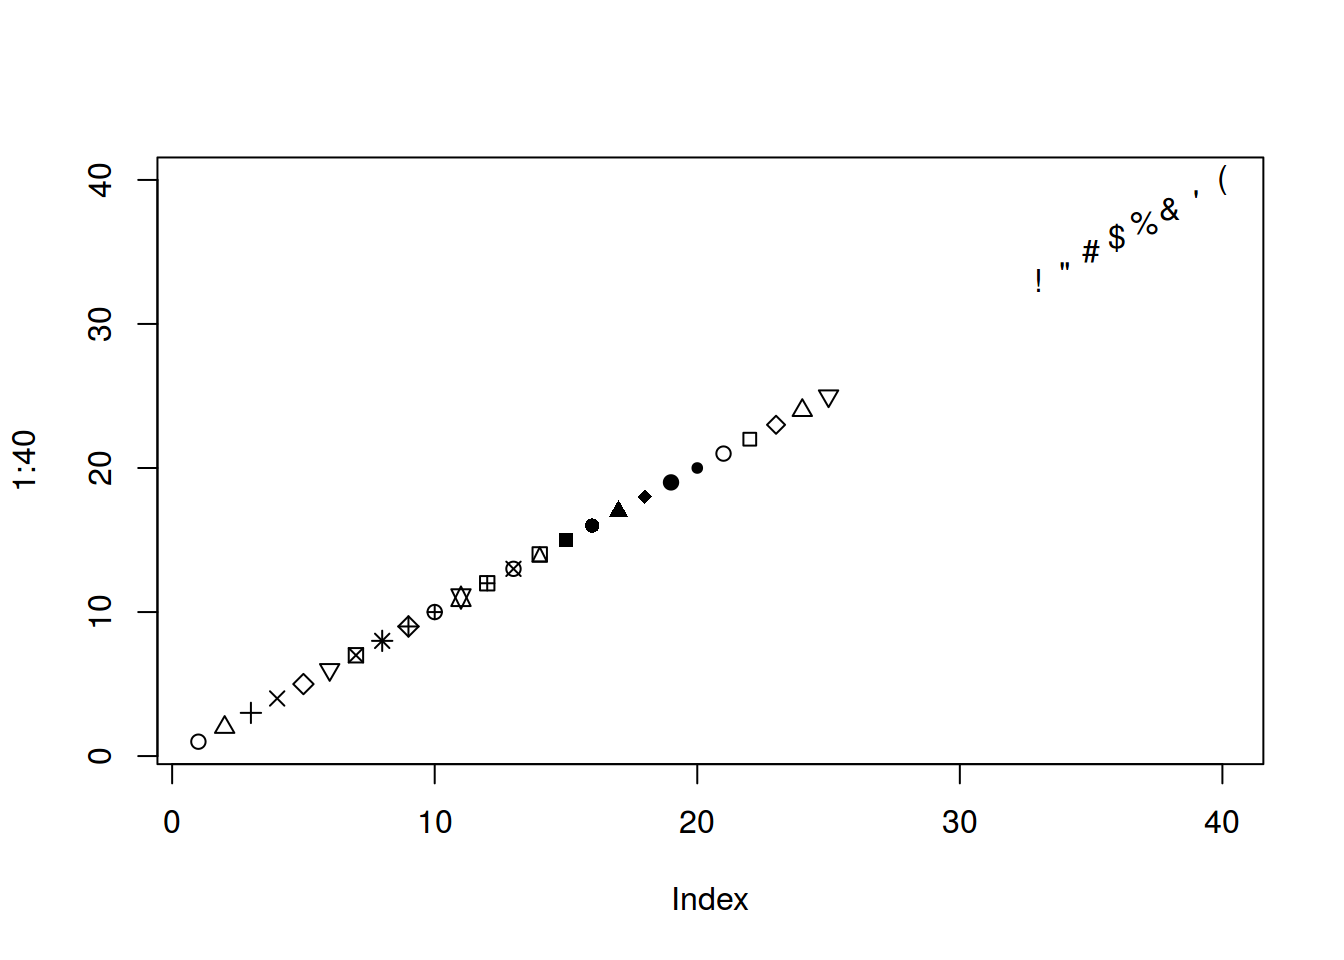
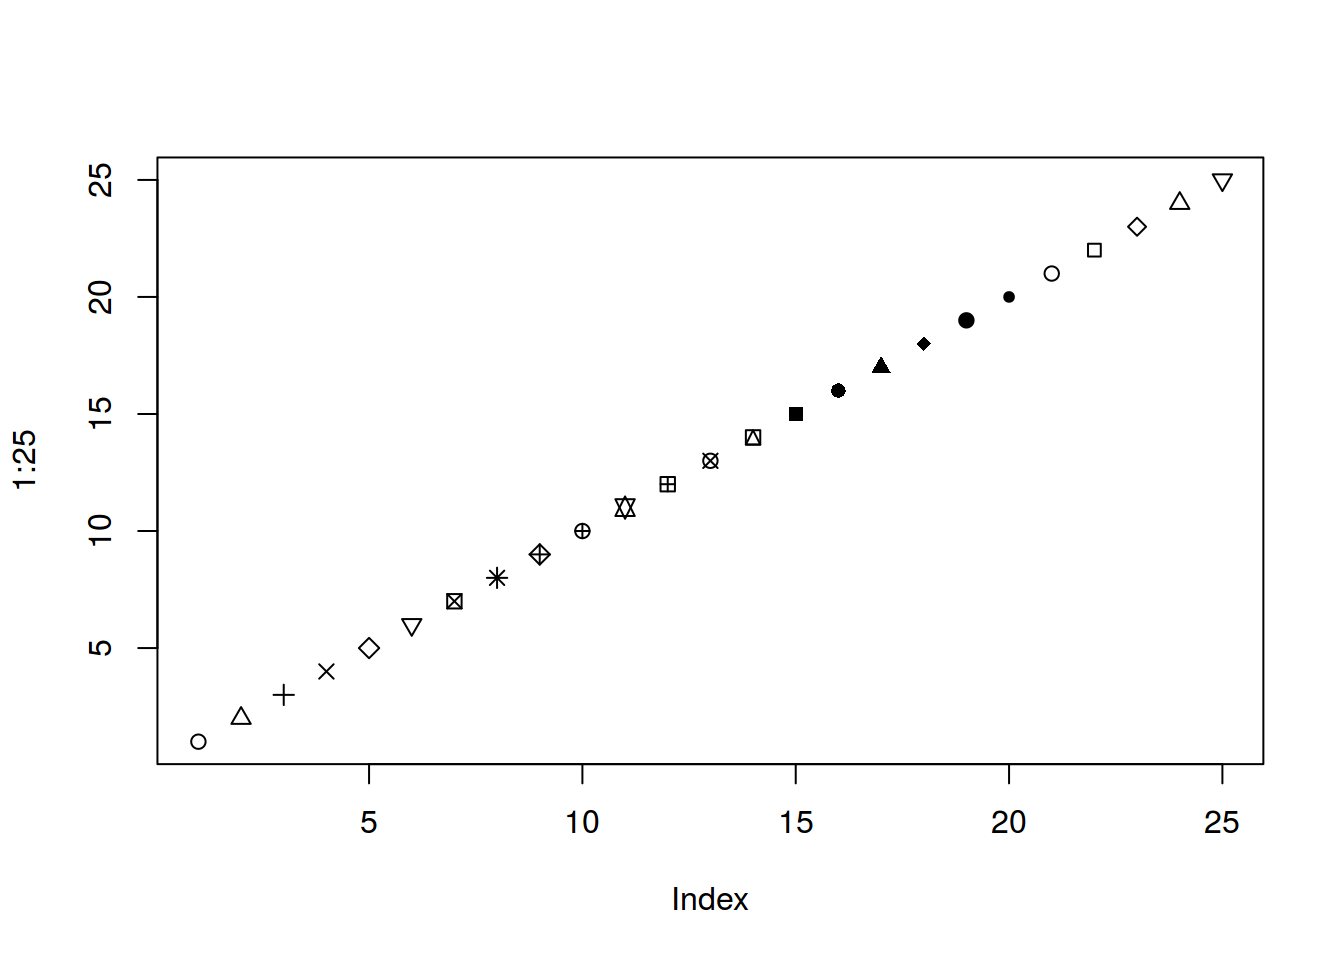
Вт. янв. 24 18:31:37 MSK 2017

diff --git a/docs/Lab_3.html b/docs/Lab_3.html
@@ -237,74 +237,74 @@ $(document).ready(function () {
 dim(g) &lt;- c(5, 10)
 g &lt;- as.data.frame(g)
 g</code></pre>
-<pre><code>##           V1         V2         V3         V4          V5          V6
-## 1 -1.3517249  0.1877347  0.7973820 -1.3187318  0.22622889 -0.18580764
-## 2  0.2708283  1.2797086 -1.8145999  0.2684997 -2.07774435 -0.55764336
-## 3 -0.1108072 -0.5525204 -0.8569892  1.4523414  0.06884078  0.24843660
-## 4 -1.2870143  0.4575026 -0.8422536 -2.2070686 -1.44991598  0.61141061
-## 5 -0.7647882 -0.4903380 -0.8019057 -0.3799058  0.90179858 -0.06198902
-##           V7          V8           V9         V10
-## 1 -0.4036390  0.24399688 -0.153870879 -1.45540285
-## 2  1.1341110 -0.06443948  0.138677161 -1.12787719
-## 3  0.7019382  1.09266022  0.709684055 -1.85526251
-## 4  0.9100318 -0.05446905 -0.007342953  0.08713663
-## 5 -2.9336308  0.66560961  0.133650806  0.91507194</code></pre>
+<pre><code>##            V1         V2         V3         V4         V5         V6
+## 1  1.15036863 -0.3878489  3.4449063 -1.3143972  0.4079037  0.2434835
+## 2 -0.07677652  0.3258960  0.1343360 -0.1001912  0.1894442  0.7019218
+## 3 -0.98080334 -0.6922754  0.6909976  0.5919681 -0.1340734 -0.4426404
+## 4 -0.83274929  1.3516030 -2.0236497  0.2130675  1.1025906  0.6579244
+## 5 -0.96438682  0.3516740  0.7360053 -0.5492660 -0.8519452 -0.7323938
+##            V7         V8          V9        V10
+## 1  0.01975244  0.6742642 -2.27879178 -0.4569472
+## 2 -1.47064603  0.3871146 -1.01735862  1.6451995
+## 3  0.29205309 -0.2482911  0.95821970  1.0725123
+## 4 -0.87325429 -2.1557843 -0.69709731 -1.3730056
+## 5  1.48002715  0.2835117  0.02403344 -1.2585086</code></pre>
 <pre class="r"><code>f &lt;- rnorm(30)
 dim(f) &lt;- c(3, 10)
 f &lt;- as.data.frame(f)
 f</code></pre>
-<pre><code>##           V1        V2          V3        V4         V5         V6
-## 1 -1.3595275 2.4973683  0.47372256 0.7646223  0.4616883  0.2262698
-## 2  0.9808833 1.0053464 -0.01701119 1.4678475  0.7281109  1.9926540
-## 3  1.8061878 0.7891848 -2.05033874 0.3254322 -0.5960979 -0.3034322
-##           V7         V8         V9        V10
-## 1  0.8484894  0.5515371 -0.9062912  1.1851303
-## 2  0.1487302 -1.5892038  0.4357017 -0.3845065
-## 3 -0.9343268  0.2859564 -0.5512410  2.9508782</code></pre>
+<pre><code>##           V1        V2        V3         V4        V5        V6
+## 1 -0.3088611 0.8556017 -1.018222  0.6543355 1.9359502 0.3357783
+## 2  1.0970357 2.4861011  1.433616  1.2356220 2.1050695 1.7252242
+## 3  1.8421818 1.1998634 -1.145156 -0.3188687 0.6672773 0.2841823
+##            V7        V8          V9         V10
+## 1 -0.07983191 0.1946759 -0.35911632  0.05194571
+## 2  0.25178849 0.9580526  0.21986311 -1.29829671
+## 3  1.10770352 1.2068066 -0.02250642 -0.68765167</code></pre>
 <pre class="r"><code>rbind(g, f)</code></pre>
-<pre><code>##           V1         V2          V3         V4          V5          V6
-## 1 -1.3517249  0.1877347  0.79738197 -1.3187318  0.22622889 -0.18580764
-## 2  0.2708283  1.2797086 -1.81459994  0.2684997 -2.07774435 -0.55764336
-## 3 -0.1108072 -0.5525204 -0.85698919  1.4523414  0.06884078  0.24843660
-## 4 -1.2870143  0.4575026 -0.84225356 -2.2070686 -1.44991598  0.61141061
-## 5 -0.7647882 -0.4903380 -0.80190574 -0.3799058  0.90179858 -0.06198902
-## 6 -1.3595275  2.4973683  0.47372256  0.7646223  0.46168825  0.22626981
-## 7  0.9808833  1.0053464 -0.01701119  1.4678475  0.72811086  1.99265400
-## 8  1.8061878  0.7891848 -2.05033874  0.3254322 -0.59609786 -0.30343222
-##           V7          V8           V9         V10
-## 1 -0.4036390  0.24399688 -0.153870879 -1.45540285
-## 2  1.1341110 -0.06443948  0.138677161 -1.12787719
-## 3  0.7019382  1.09266022  0.709684055 -1.85526251
-## 4  0.9100318 -0.05446905 -0.007342953  0.08713663
-## 5 -2.9336308  0.66560961  0.133650806  0.91507194
-## 6  0.8484894  0.55153710 -0.906291188  1.18513034
-## 7  0.1487302 -1.58920375  0.435701732 -0.38450646
-## 8 -0.9343268  0.28595639 -0.551240951  2.95087817</code></pre>
+<pre><code>##            V1         V2         V3         V4         V5         V6
+## 1  1.15036863 -0.3878489  3.4449063 -1.3143972  0.4079037  0.2434835
+## 2 -0.07677652  0.3258960  0.1343360 -0.1001912  0.1894442  0.7019218
+## 3 -0.98080334 -0.6922754  0.6909976  0.5919681 -0.1340734 -0.4426404
+## 4 -0.83274929  1.3516030 -2.0236497  0.2130675  1.1025906  0.6579244
+## 5 -0.96438682  0.3516740  0.7360053 -0.5492660 -0.8519452 -0.7323938
+## 6 -0.30886115  0.8556017 -1.0182221  0.6543355  1.9359502  0.3357783
+## 7  1.09703573  2.4861011  1.4336160  1.2356220  2.1050695  1.7252242
+## 8  1.84218175  1.1998634 -1.1451556 -0.3188687  0.6672773  0.2841823
+##            V7         V8          V9         V10
+## 1  0.01975244  0.6742642 -2.27879178 -0.45694717
+## 2 -1.47064603  0.3871146 -1.01735862  1.64519948
+## 3  0.29205309 -0.2482911  0.95821970  1.07251231
+## 4 -0.87325429 -2.1557843 -0.69709731 -1.37300561
+## 5  1.48002715  0.2835117  0.02403344 -1.25850861
+## 6 -0.07983191  0.1946759 -0.35911632  0.05194571
+## 7  0.25178849  0.9580526  0.21986311 -1.29829671
+## 8  1.10770352  1.2068066 -0.02250642 -0.68765167</code></pre>
 <pre class="r"><code>h &lt;- rnorm(21)
 dim(h) &lt;- c(3, 7)
 h &lt;- as.data.frame(h)
 h</code></pre>
-<pre><code>##           V1         V2         V3        V4         V5         V6
-## 1 -0.3152461 -1.1198365 -0.6485647 0.6530131 -0.1133994 -0.6394220
-## 2  0.4589098 -0.2635579  0.5290864 0.3737277  0.9727770 -0.1802889
-## 3  0.5345629  0.1939366 -0.6982871 1.6346708 -0.7003031 -0.5442038
-##           V7
-## 1  0.2250449
-## 2 -1.5767357
-## 3 -1.4796297</code></pre>
+<pre><code>##          V1         V2         V3         V4         V5         V6
+## 1 0.8679111  1.6064744  2.4759844 -2.3318697 -1.1634989 -1.4288892
+## 2 0.2074690 -0.5454714  0.8556674  0.6423995 -0.7003535  0.4077145
+## 3 0.4096905  0.4721778 -0.2709580  1.4626329  1.0380578  0.5214895
+##            V7
+## 1 -1.16824882
+## 2 -0.07871936
+## 3 -0.11492098</code></pre>
 <pre class="r"><code>cbind(f, h)</code></pre>
-<pre><code>##           V1        V2          V3        V4         V5         V6
-## 1 -1.3595275 2.4973683  0.47372256 0.7646223  0.4616883  0.2262698
-## 2  0.9808833 1.0053464 -0.01701119 1.4678475  0.7281109  1.9926540
-## 3  1.8061878 0.7891848 -2.05033874 0.3254322 -0.5960979 -0.3034322
-##           V7         V8         V9        V10         V1         V2
-## 1  0.8484894  0.5515371 -0.9062912  1.1851303 -0.3152461 -1.1198365
-## 2  0.1487302 -1.5892038  0.4357017 -0.3845065  0.4589098 -0.2635579
-## 3 -0.9343268  0.2859564 -0.5512410  2.9508782  0.5345629  0.1939366
-##           V3        V4         V5         V6         V7
-## 1 -0.6485647 0.6530131 -0.1133994 -0.6394220  0.2250449
-## 2  0.5290864 0.3737277  0.9727770 -0.1802889 -1.5767357
-## 3 -0.6982871 1.6346708 -0.7003031 -0.5442038 -1.4796297</code></pre>
+<pre><code>##           V1        V2        V3         V4        V5        V6
+## 1 -0.3088611 0.8556017 -1.018222  0.6543355 1.9359502 0.3357783
+## 2  1.0970357 2.4861011  1.433616  1.2356220 2.1050695 1.7252242
+## 3  1.8421818 1.1998634 -1.145156 -0.3188687 0.6672773 0.2841823
+##            V7        V8          V9         V10        V1         V2
+## 1 -0.07983191 0.1946759 -0.35911632  0.05194571 0.8679111  1.6064744
+## 2  0.25178849 0.9580526  0.21986311 -1.29829671 0.2074690 -0.5454714
+## 3  1.10770352 1.2068066 -0.02250642 -0.68765167 0.4096905  0.4721778
+##           V3         V4         V5         V6          V7
+## 1  2.4759844 -2.3318697 -1.1634989 -1.4288892 -1.16824882
+## 2  0.8556674  0.6423995 -0.7003535  0.4077145 -0.07871936
+## 3 -0.2709580  1.4626329  1.0380578  0.5214895 -0.11492098</code></pre>
 <pre class="r"><code># cbind.data.frame()
 # rbind.data.frame()</code></pre>
 </div>
@@ -329,16 +329,8 @@ country_population</code></pre>
 ## 2    Poland         38
 ## 3   Finland          5</code></pre>
 <pre class="r"><code># install.packages(&quot;dplyr&quot;)
-library(dplyr)</code></pre>
-<pre><code>## 
-## Attaching package: &#39;dplyr&#39;</code></pre>
-<pre><code>## The following objects are masked from &#39;package:stats&#39;:
-## 
-##     filter, lag</code></pre>
-<pre><code>## The following objects are masked from &#39;package:base&#39;:
-## 
-##     intersect, setdiff, setequal, union</code></pre>
-<pre class="r"><code>inner_join(languages, country_population)</code></pre>
+library(dplyr)
+inner_join(languages, country_population)</code></pre>
 <pre><code>## Joining, by = &quot;countries&quot;</code></pre>
 <pre><code>## Warning in inner_join_impl(x, y, by$x, by$y, suffix$x, suffix$y): joining
 ## factors with different levels, coercing to character vector</code></pre>
@@ -414,9 +406,8 @@ substring(b, 2) &lt;- c(&quot;1&quot;, &quot;22&quot;, &quot;333&quot;) ; b</cod
 <div id="----css-" class="section level1">
 <h1>Обкачивание страниц при помощи css-селектора</h1>
 <pre class="r"><code># install.packages(&quot;rvest&quot;)
-library(rvest)</code></pre>
-<pre><code>## Loading required package: xml2</code></pre>
-<pre class="r"><code>source &lt;- read_html(&quot;https://ling.hse.ru/news/&quot;)
+library(rvest)
+source &lt;- read_html(&quot;https://ling.hse.ru/news/&quot;)
 
 # get titles by css selector
 source %&gt;% 

diff --git a/docs/Lab_4.html b/docs/Lab_4.html
@@ -231,16 +231,8 @@ $(document).ready(function () {
 </div>
 
 
-<pre class="r"><code>library(tidyverse)</code></pre>
-<pre><code>## Loading tidyverse: ggplot2
-## Loading tidyverse: tibble
-## Loading tidyverse: tidyr
-## Loading tidyverse: readr
-## Loading tidyverse: purrr</code></pre>
-<pre><code>## Conflicts with tidy packages ----------------------------------------------</code></pre>
-<pre><code>## filter(): dplyr, stats
-## lag():    dplyr, stats</code></pre>
-<pre class="r"><code>chi.kuk &lt;- read.csv(&quot;http://goo.gl/Zjr9aF&quot;)
+<pre class="r"><code>library(tidyverse)
+chi.kuk &lt;- read.csv(&quot;http://goo.gl/Zjr9aF&quot;)
 ggplot(data = chi.kuk, aes(x = chi.kuk$s.duration.ms, y = chi.kuk$vowel.duration.ms)) +
   geom_smooth() +
   geom_point()</code></pre>
@@ -261,13 +253,7 @@ ggplot(data = chi.kuk, aes(x = chi.kuk$s.duration.ms, y = chi.kuk$vowel.duration
   geom_point()</code></pre>
 <pre><code>## `geom_smooth()` using method = &#39;loess&#39;</code></pre>
 <p><img src="Lab_4_files/figure-html/unnamed-chunk-4-1.png" width="672" /></p>
-<pre class="r"><code>plot(1:40, pch = 1:40)</code></pre>
-<pre><code>## Warning in plot.xy(xy, type, ...): не разработанное pch-значение &#39;26&#39;</code></pre>
-<pre><code>## Warning in plot.xy(xy, type, ...): не разработанное pch-значение &#39;27&#39;</code></pre>
-<pre><code>## Warning in plot.xy(xy, type, ...): не разработанное pch-значение &#39;28&#39;</code></pre>
-<pre><code>## Warning in plot.xy(xy, type, ...): не разработанное pch-значение &#39;29&#39;</code></pre>
-<pre><code>## Warning in plot.xy(xy, type, ...): не разработанное pch-значение &#39;30&#39;</code></pre>
-<pre><code>## Warning in plot.xy(xy, type, ...): не разработанное pch-значение &#39;31&#39;</code></pre>
+<pre class="r"><code>plot(1:25, pch = 1:25)</code></pre>
 <p><img src="Lab_4_files/figure-html/unnamed-chunk-5-1.png" width="672" /></p>
 <pre class="r"><code>plot(chi.kuk$s.duration.ms, chi.kuk$vowel.duration.ms,
   cex = chi.kuk$age)</code></pre>
@@ -427,67 +413,7 @@ df</code></pre>
        subtitle = &quot;Грачи улетели, метро еще ходит&quot;,
        caption = &quot;данные взяты из головы&quot;)+  theme_bw()</code></pre>
 <p><img src="Lab_4_files/figure-html/unnamed-chunk-14-1.png" width="672" /></p>
-<pre class="r"><code>pie</code></pre>
-<pre><code>## function (x, labels = names(x), edges = 200, radius = 0.8, clockwise = FALSE, 
-##     init.angle = if (clockwise) 90 else 0, density = NULL, angle = 45, 
-##     col = NULL, border = NULL, lty = NULL, main = NULL, ...) 
-## {
-##     if (!is.numeric(x) || any(is.na(x) | x &lt; 0)) 
-##         stop(&quot;&#39;x&#39; values must be positive.&quot;)
-##     if (is.null(labels)) 
-##         labels &lt;- as.character(seq_along(x))
-##     else labels &lt;- as.graphicsAnnot(labels)
-##     x &lt;- c(0, cumsum(x)/sum(x))
-##     dx &lt;- diff(x)
-##     nx &lt;- length(dx)
-##     plot.new()
-##     pin &lt;- par(&quot;pin&quot;)
-##     xlim &lt;- ylim &lt;- c(-1, 1)
-##     if (pin[1L] &gt; pin[2L]) 
-##         xlim &lt;- (pin[1L]/pin[2L]) * xlim
-##     else ylim &lt;- (pin[2L]/pin[1L]) * ylim
-##     dev.hold()
-##     on.exit(dev.flush())
-##     plot.window(xlim, ylim, &quot;&quot;, asp = 1)
-##     if (is.null(col)) 
-##         col &lt;- if (is.null(density)) 
-##             c(&quot;white&quot;, &quot;lightblue&quot;, &quot;mistyrose&quot;, &quot;lightcyan&quot;, 
-##                 &quot;lavender&quot;, &quot;cornsilk&quot;)
-##         else par(&quot;fg&quot;)
-##     if (!is.null(col)) 
-##         col &lt;- rep_len(col, nx)
-##     if (!is.null(border)) 
-##         border &lt;- rep_len(border, nx)
-##     if (!is.null(lty)) 
-##         lty &lt;- rep_len(lty, nx)
-##     angle &lt;- rep(angle, nx)
-##     if (!is.null(density)) 
-##         density &lt;- rep_len(density, nx)
-##     twopi &lt;- if (clockwise) 
-##         -2 * pi
-##     else 2 * pi
-##     t2xy &lt;- function(t) {
-##         t2p &lt;- twopi * t + init.angle * pi/180
-##         list(x = radius * cos(t2p), y = radius * sin(t2p))
-##     }
-##     for (i in 1L:nx) {
-##         n &lt;- max(2, floor(edges * dx[i]))
-##         P &lt;- t2xy(seq.int(x[i], x[i + 1], length.out = n))
-##         polygon(c(P$x, 0), c(P$y, 0), density = density[i], angle = angle[i], 
-##             border = border[i], col = col[i], lty = lty[i])
-##         P &lt;- t2xy(mean(x[i + 0:1]))
-##         lab &lt;- as.character(labels[i])
-##         if (!is.na(lab) &amp;&amp; nzchar(lab)) {
-##             lines(c(1, 1.05) * P$x, c(1, 1.05) * P$y)
-##             text(1.1 * P$x, 1.1 * P$y, labels[i], xpd = TRUE, 
-##                 adj = ifelse(P$x &lt; 0, 1, 0), ...)
-##         }
-##     }
-##     title(main = main, ...)
-##     invisible(NULL)
-## }
-## &lt;bytecode: 0x6975be8&gt;
-## &lt;environment: namespace:graphics&gt;</code></pre>
+<pre class="r"><code>?pie</code></pre>
 
 
 

diff --git a/docs/Lab_5.html b/docs/Lab_5.html
@@ -244,8 +244,6 @@ install.packages(&#39;ggthemes&#39;, dependencies = TRUE)</code></pre>
 <div id="plotly" class="section level2">
 <h2>Plotly</h2>
 <pre class="r"><code>install.packages(&quot;plotly&quot;)</code></pre>
-<pre><code>## Installing package into &#39;/home/agricolamz/R/x86_64-pc-linux-gnu-library/3.3&#39;
-## (as &#39;lib&#39; is unspecified)</code></pre>
 </div>
 <div id="flex-dashboards" class="section level2">
 <h2>Flex Dashboards</h2>
